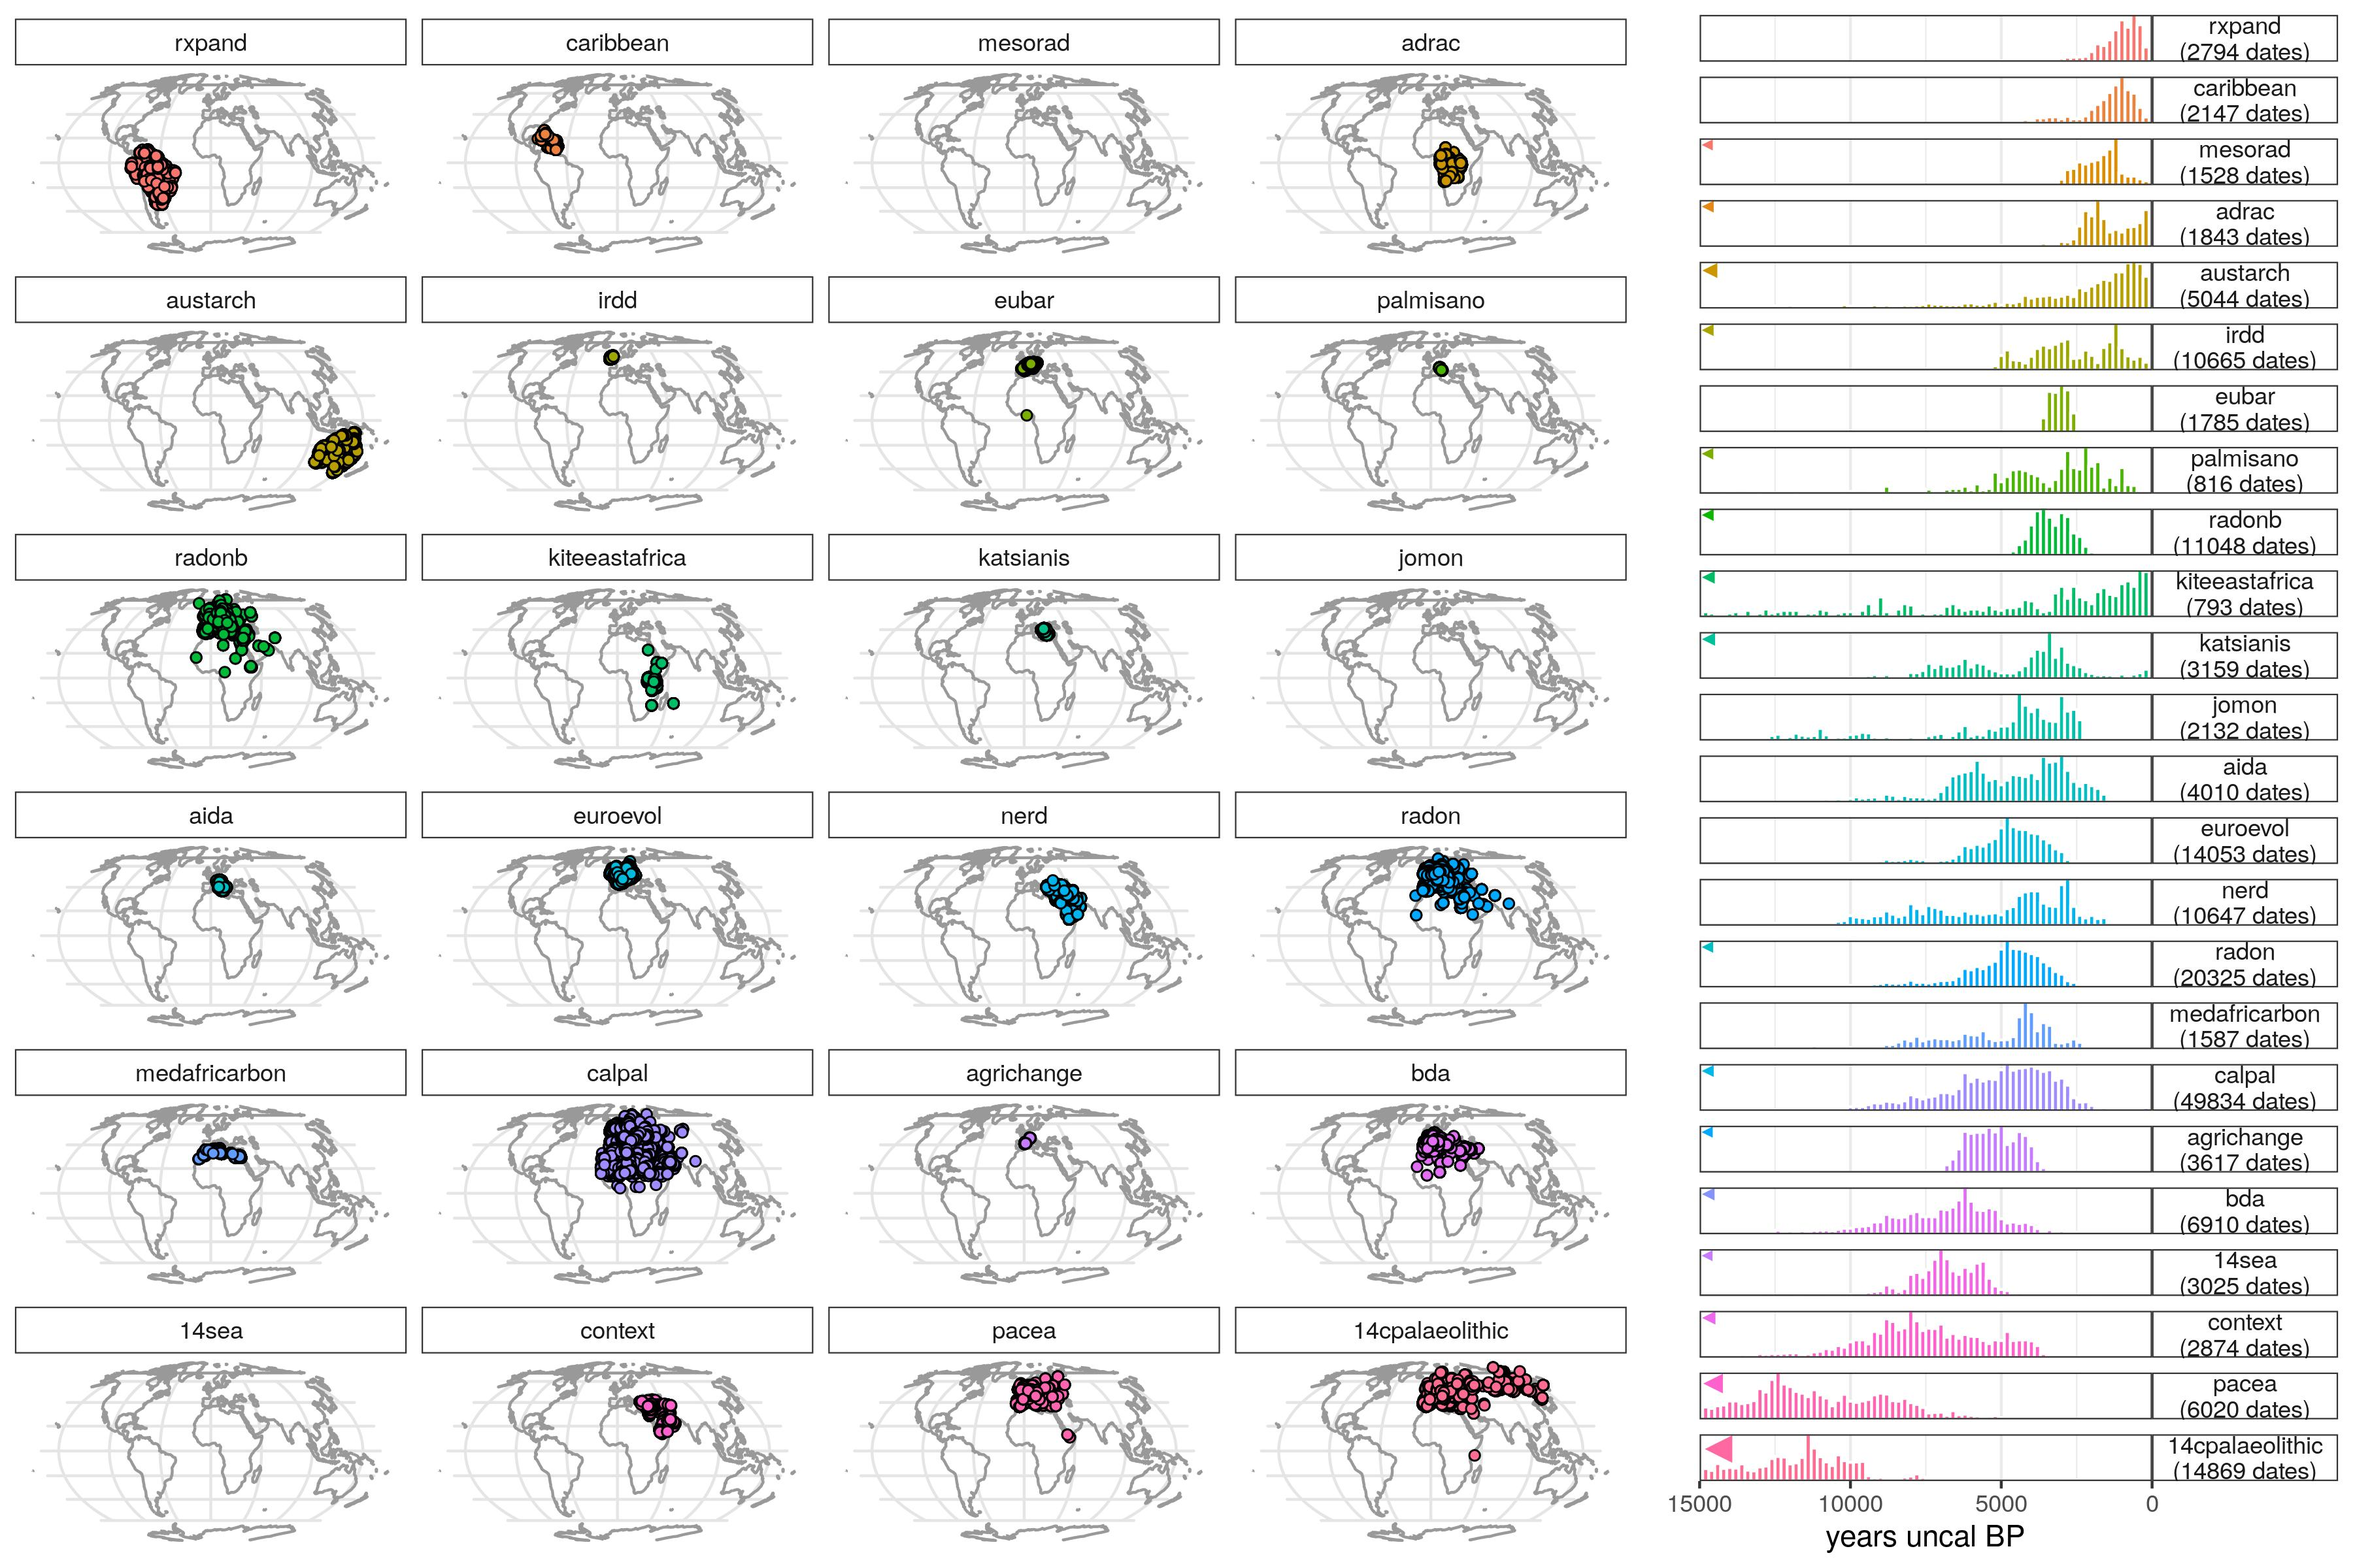
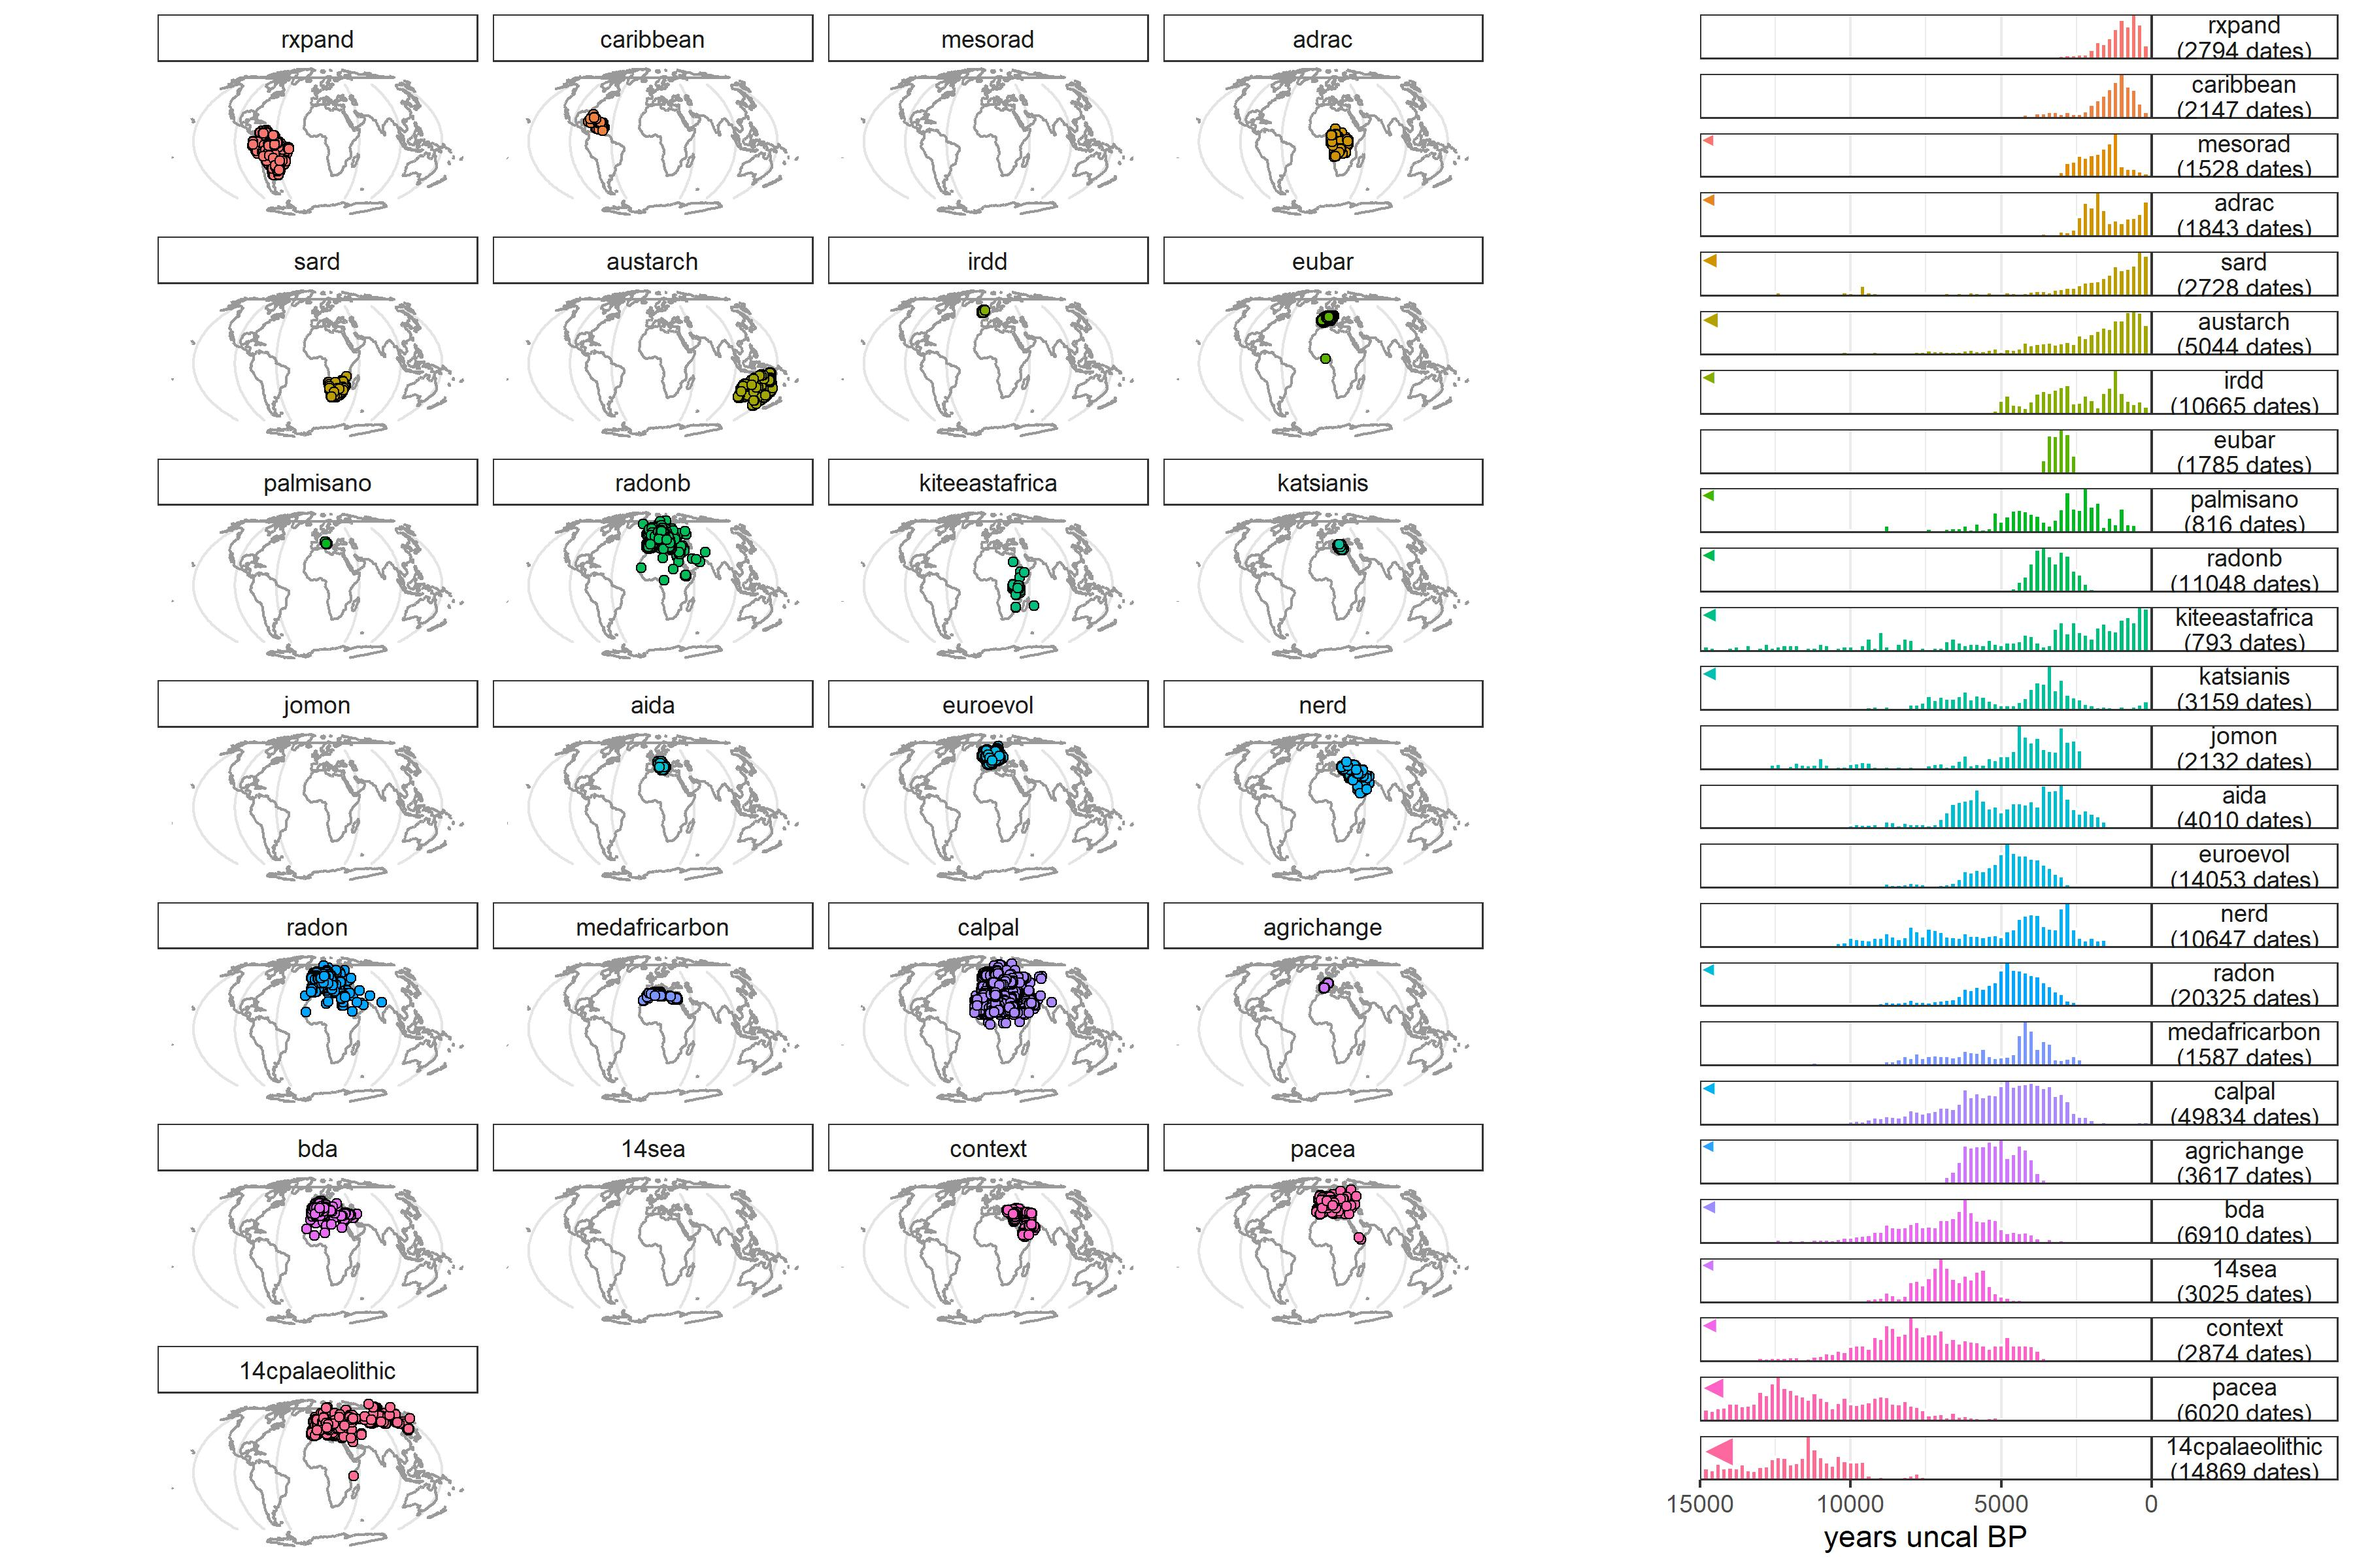
initial parser for sard

Changed region(s): [[0.0311, 0.0, 0.6844, 1.0], [0.7156, 0.0, 0.9956, 1.0], [0.3422, 0.1562, 0.3733, 0.1875]]

diff --git a/README.md b/README.md
@@ -173,6 +173,7 @@ To suggest other archives to be queried you can join the discussion [here](https
 * [`get_c14data("radon")`](R/get_radon.R) [**radon**](https://radon.ufg.uni-kiel.de/): Central European and Scandinavian database of 14C dates for the Neolithic and Early Bronze Age by [Dirk Raetzel-Fabian, Martin Furholt, Martin Hinz, Johannes Müller, Christoph Rinne, Karl-Göran Sjögren und Hans-Peter Wotzka](https://www.jna.uni-kiel.de/index.php/jna/article/view/65).
 * [`get_c14data("radonb")`](R/get_radonb.R) [**radonb**](https://radon-b.ufg.uni-kiel.de/): Database for European 14C dates for the Bronze and Early Iron Age by Jutta Kneisel, Martin Hinz, Christoph Rinne.
 * [`get_c14data("rxpand")`](R/get_rxpand.R) [**rxpand**](https://github.com/jgregoriods/rxpand): Radiocarbon dates for the spread of farming and ceramics in tropical South America by Jonas Gregorio de Souza.
+* [`get_c14data("sard")`](R/get_sard.R) [**sard**](https://github.com/emmaloftus/Southern-African-Radiocarbon-Database): Southern-African-Radiocarbon-Database by [Emma Loftus, Peter J. Mitchell & Christopher Bronk Ramsey](https://www.cambridge.org/core/journals/antiquity/article/abs/an-archaeological-radiocarbon-database-for-southern-africa/26FE99E995C4507015704D552CB0C196).
 
 ### Contributing
 

diff --git a/NEWS.md b/NEWS.md
@@ -1,3 +1,7 @@
+# 3.2.0
+
+- added getter function for sard database: `get_sard`
+
 # 3.1.0
 
 - added getter function for aida database: `get_aida`
